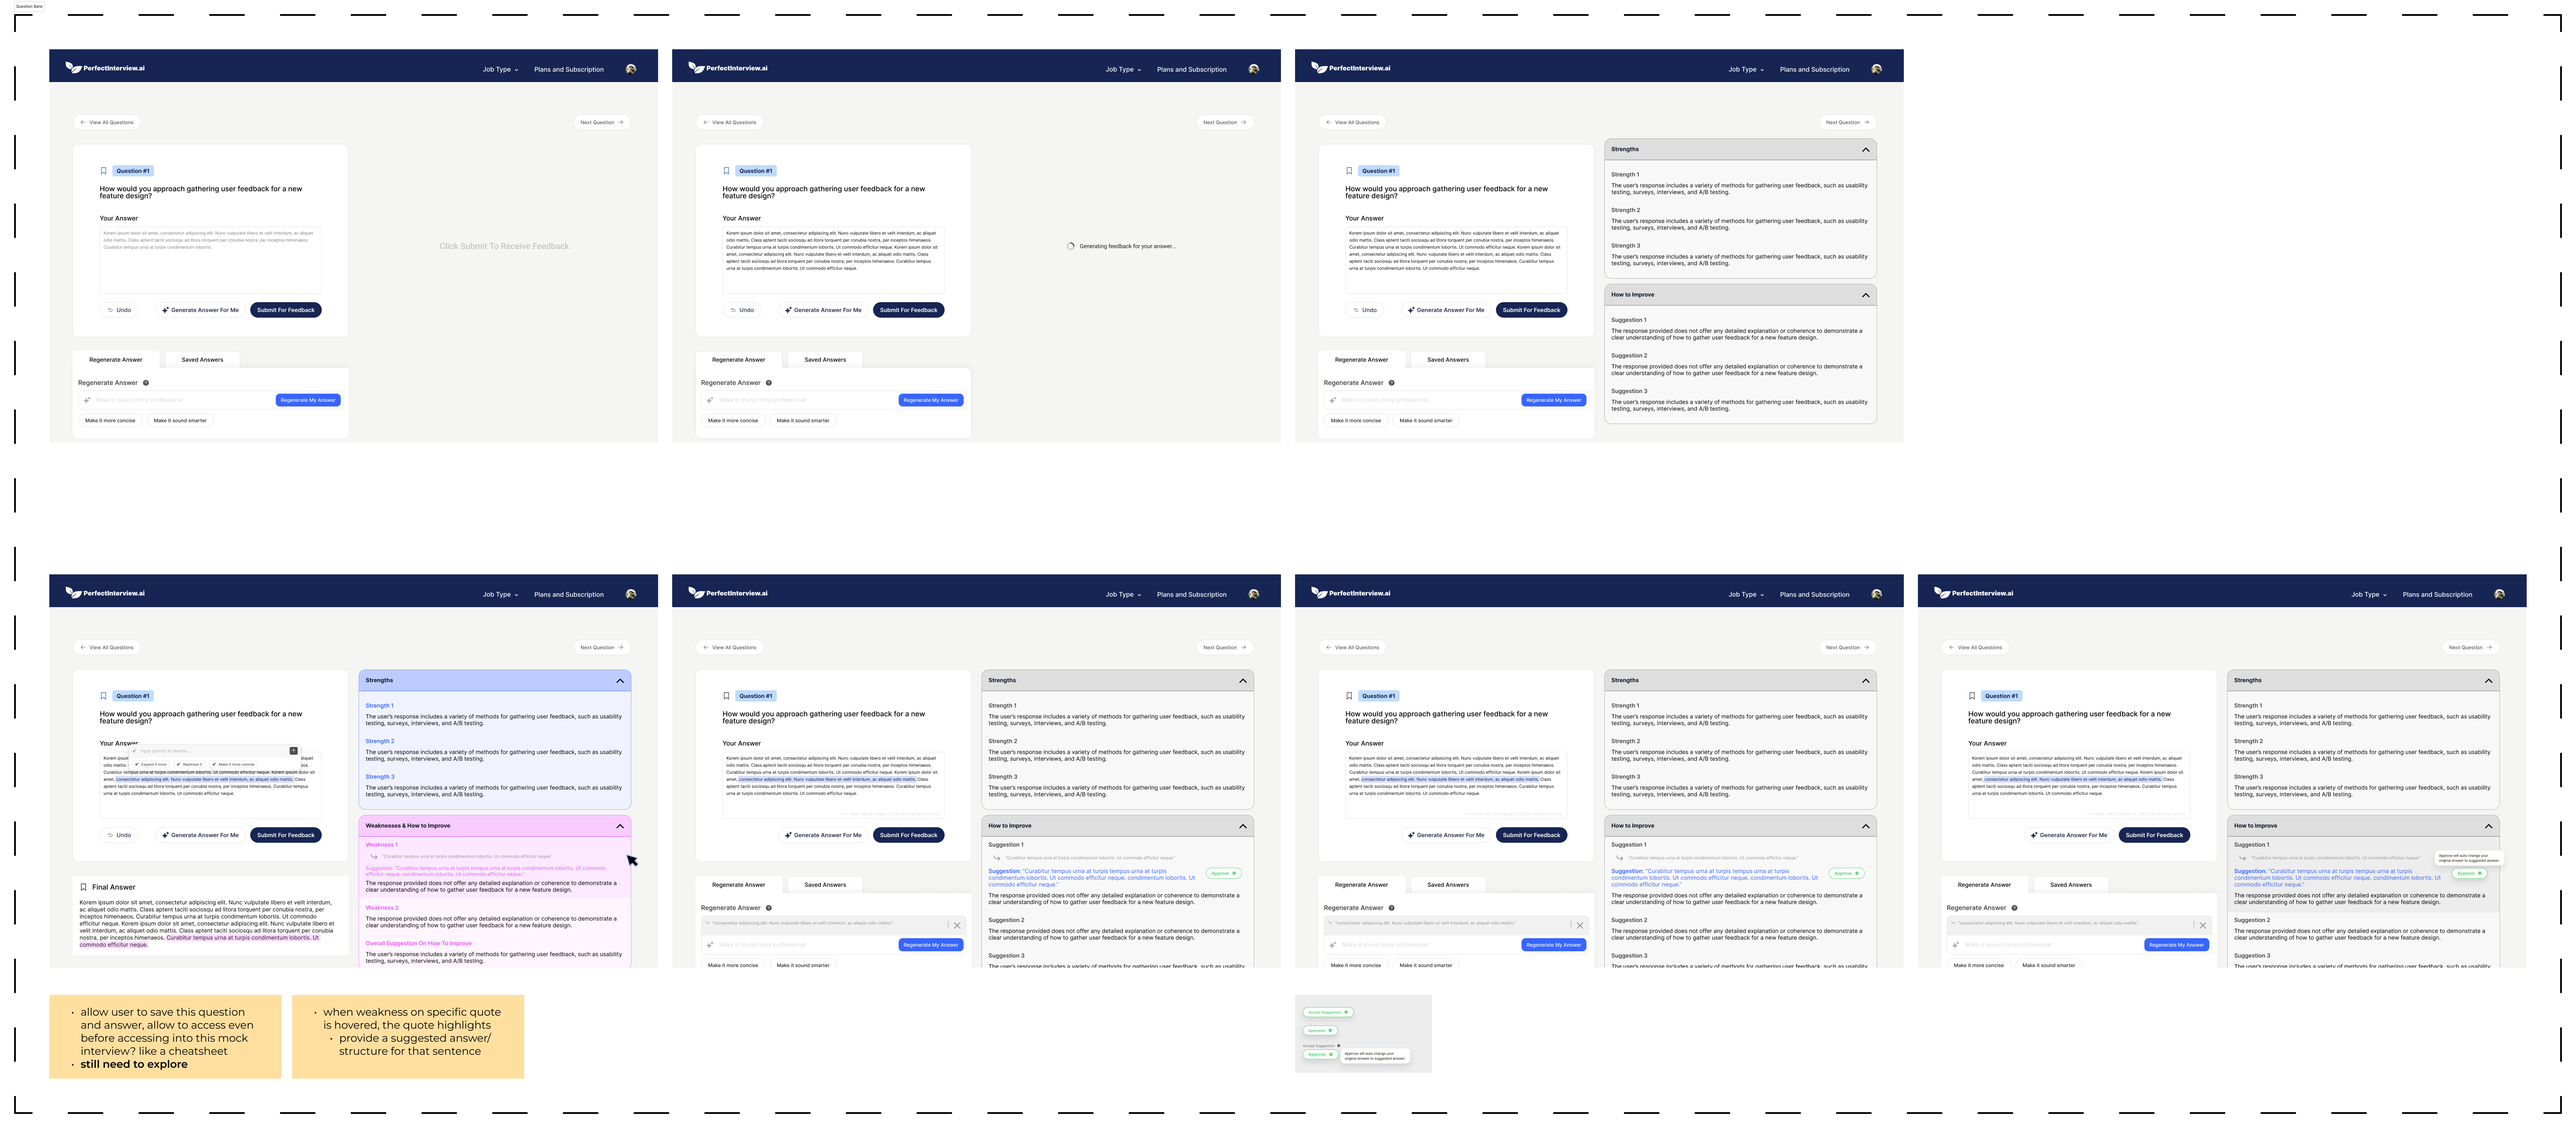
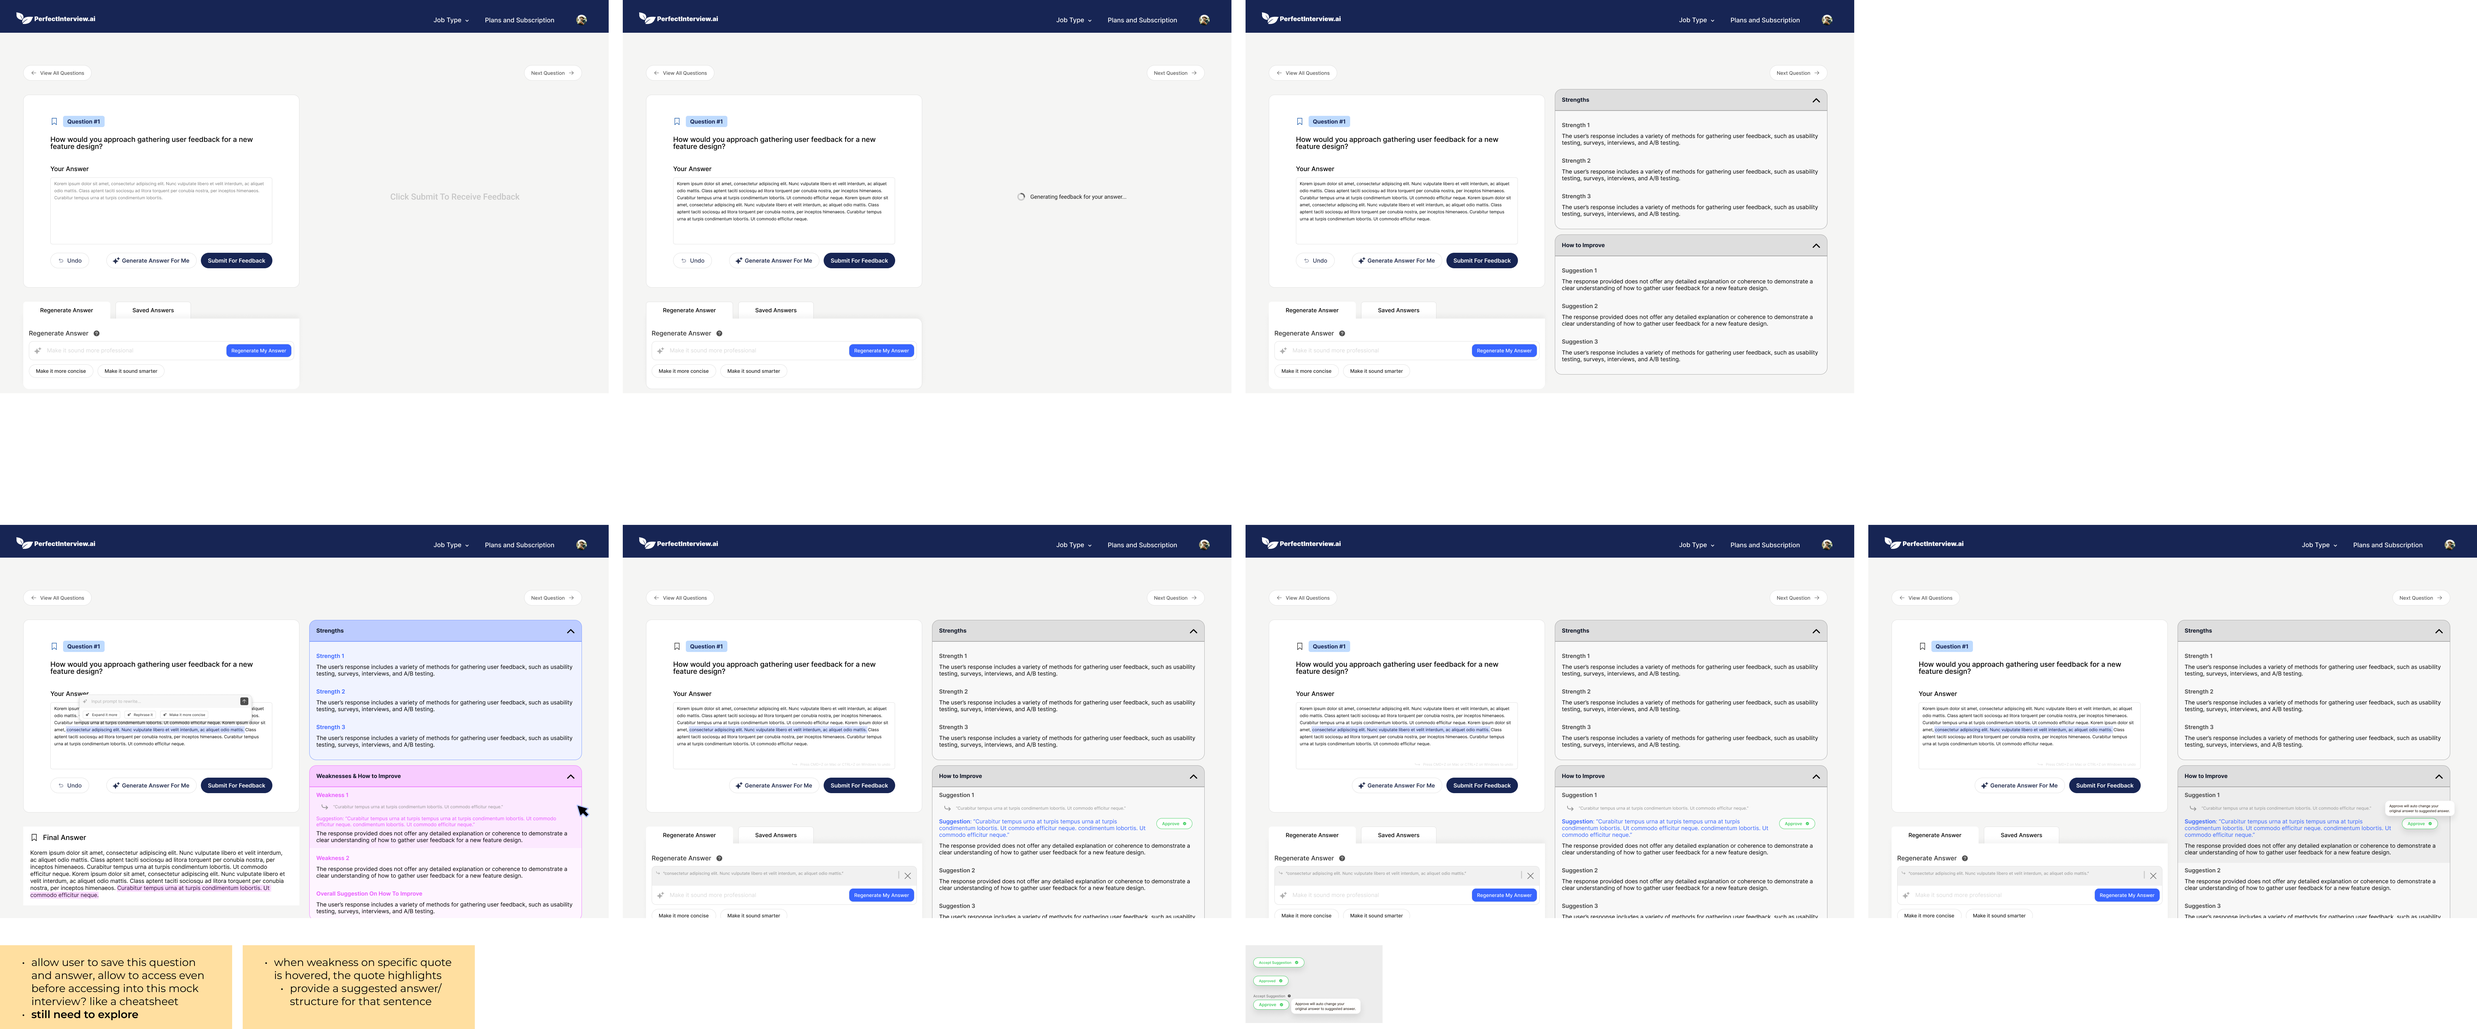
Remove PerfectInterview reflection section and update Question Bank image.
Drop the reflection block and refresh hi-fi dimensions for the replaced Question Bank mockup.

diff --git a/app/case-studies/perfect-interview/page.tsx b/app/case-studies/perfect-interview/page.tsx
@@ -46,8 +46,8 @@ const PI_ASSET = (name: string) =>
 const SCREENS = [
   {
     src: PI_ASSET("Question Bank.png"),
-    width: 7312,
-    height: 3203,
+    width: 7032,
+    height: 2923,
     alt: "PerfectInterview.ai — Question Bank",
     unoptimized: true,
   },
@@ -83,12 +83,6 @@ const MVP_1_ITEMS = [
   "Clarified value proposition: mock interviews + question bank",
   "Redesigned pricing/subscription management pages",
   "Improved interview feedback page hierarchy",
-] as const;
-
-const REFLECTION_ITEMS = [
-  "Balance user needs with business constraints in a high-speed environment",
-  "Communicate directly with founders and engineers to ship fast",
-  "Use small UX details (progressive learning, confetti, clear pricing) to build user trust and delight",
 ] as const;
 
 export const metadata = {
@@ -267,28 +261,6 @@ export default function PerfectInterviewCaseStudy() {
           <h2 className={CASE_STUDY_SECTION_TITLE_CLASS}>Redesign foundations</h2>
           <ul className="max-w-3xl list-disc space-y-2 pl-5 text-zinc-300 leading-relaxed marker:text-zinc-500">
             {MVP_1_ITEMS.map((item) => (
-              <li key={item}>{item}</li>
-            ))}
-          </ul>
-        </CaseStudyInViewSection>
-
-        <CaseStudyInViewSection
-          id="reflection"
-          className="scroll-mt-28 space-y-6 border-t border-zinc-800 pt-12 sm:scroll-mt-32"
-        >
-          <span className="text-xs font-medium uppercase tracking-widest text-zinc-500">
-            Reflection
-          </span>
-          <h2 className={CASE_STUDY_SECTION_TITLE_CLASS}>
-            Owning design at a startup
-          </h2>
-          <p className="max-w-3xl text-zinc-300 leading-relaxed">
-            This project started with a simple outreach email and turned into a
-            3-month journey owning design at a startup. With no prior design
-            infrastructure, I learned to:
-          </p>
-          <ul className="max-w-3xl list-disc space-y-2 pl-5 text-zinc-300 leading-relaxed marker:text-zinc-500">
-            {REFLECTION_ITEMS.map((item) => (
               <li key={item}>{item}</li>
             ))}
           </ul>
